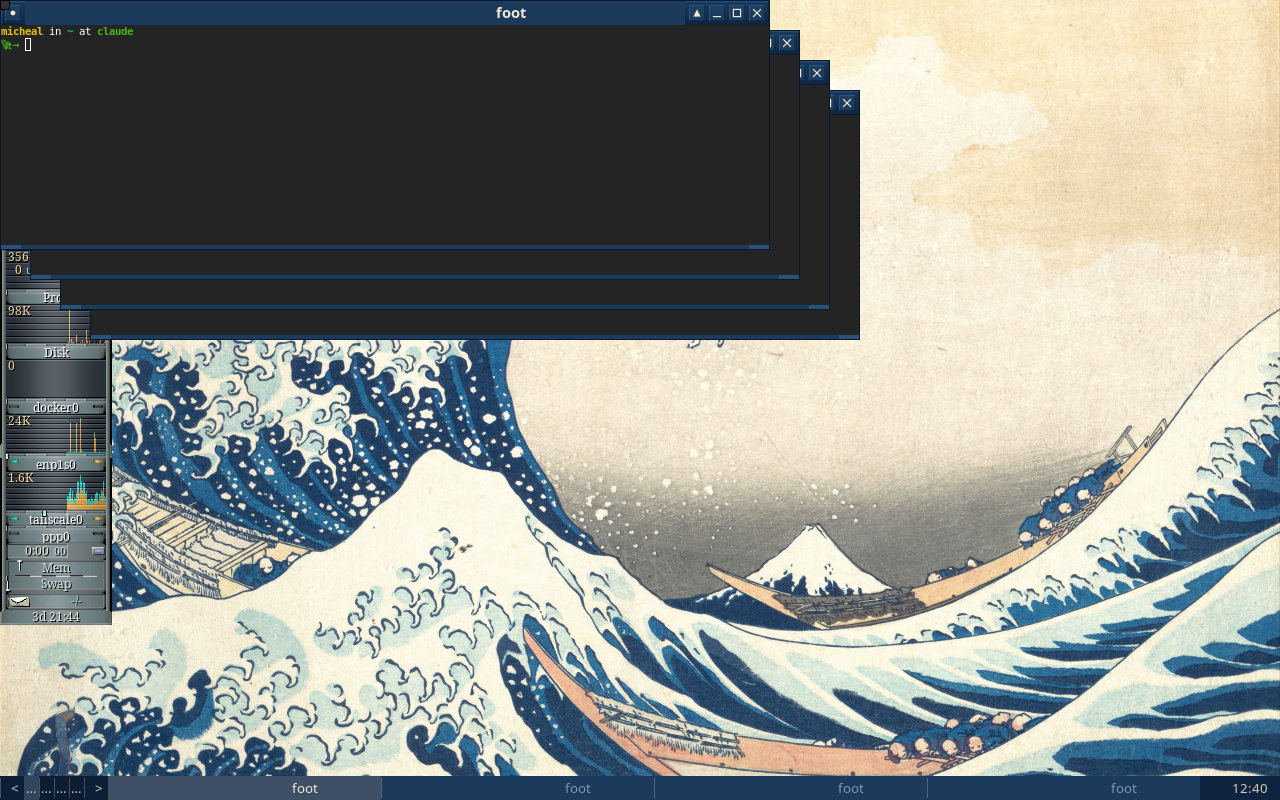
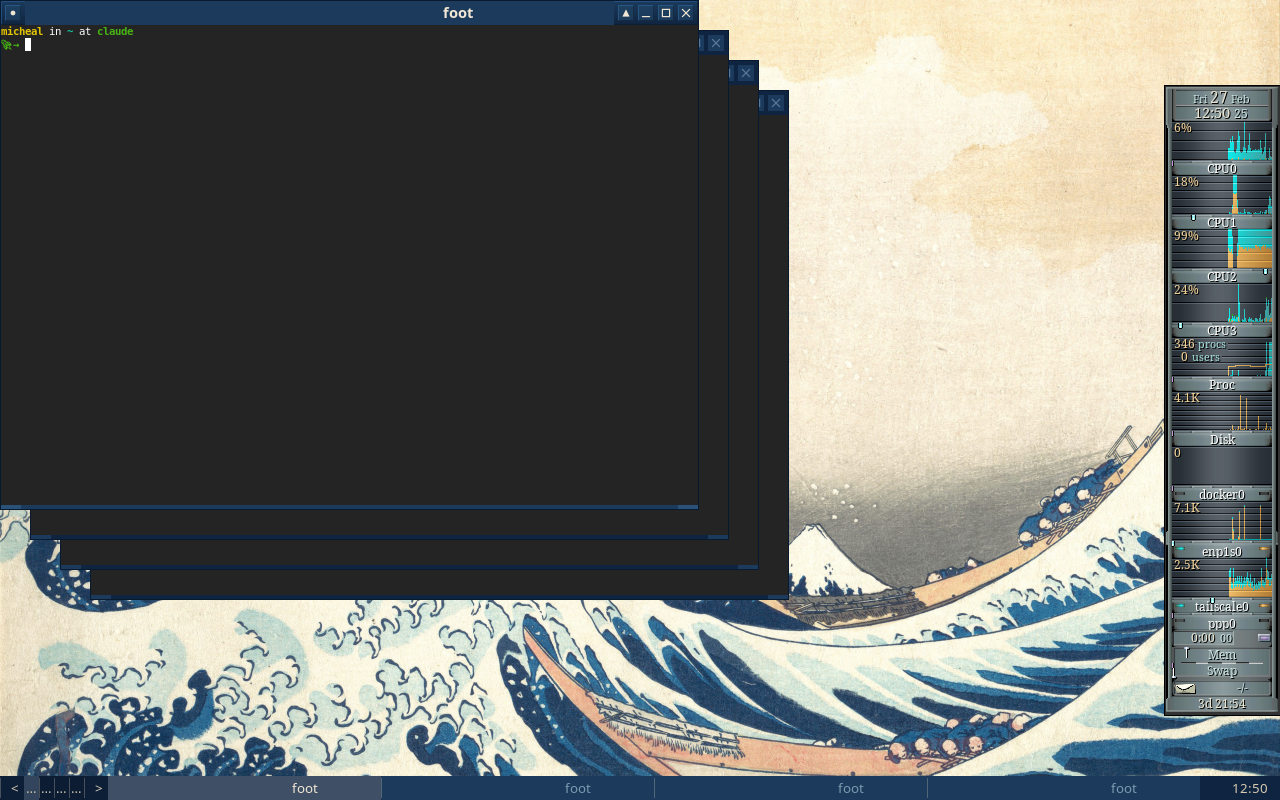
fix: route gkrellm to slit and map already-mapped slit clients
Two bugs prevented gkrellm -w from docking in the slit:

1. should_dock_in_slit() required window_type_len == 0 for withdrawn
   state detection, but gkrellm sets _NET_WM_WINDOW_TYPE_NORMAL even
   with -w flag. Remove the window_type_len check since withdrawn
   state (initial_state == 0) is sufficient.

2. wm_slit_add_client() registered a wl_surface map listener, but
   the surface was already mapped when called from the xwayland map
   handler. The listener never fired, leaving the client unmapped
   with no scene tree. Now checks if surface exists at add time and
   triggers map logic immediately.

Updated screenshots show gkrellm properly docked in the slit on the
right side with fully visible window titlebars.

diff --git a/src/slit.c b/src/slit.c
@@ -658,6 +658,29 @@ wm_slit_add_client(struct wm_slit *slit, void *surface)
 	wlr_log(WLR_INFO, "slit: added client (total %d)",
 		slit->client_count);
 
+#ifdef WM_HAS_XWAYLAND
+	/*
+	 * If the surface is already mapped (e.g. routed from the xwayland
+	 * map handler), trigger map logic immediately since we missed the
+	 * wl_surface map event.
+	 */
+	if (client->xsurface->surface) {
+		client->mapped = true;
+		client->width = client->xsurface->width;
+		client->height = client->xsurface->height;
+		if (!client->scene_tree && slit->scene_tree) {
+			client->scene_tree = wlr_scene_subsurface_tree_create(
+				slit->scene_tree,
+				client->xsurface->surface);
+		}
+		wlr_log(WLR_INFO, "slit client mapped: %s (%dx%d)",
+			client->xsurface->title ?
+				client->xsurface->title : "(null)",
+			client->width, client->height);
+		wm_slit_reconfigure(slit);
+	}
+#endif
+
 	return client;
 }
 

diff --git a/src/xwayland.c b/src/xwayland.c
@@ -144,11 +144,11 @@ should_dock_in_slit(struct wlr_xwayland_surface *xsurface,
 
 	/*
 	 * Classic dockapps use withdrawn state (initial_state == 0
-	 * in WM_HINTS).  Check the size hints: tiny windows with
-	 * no window type set are likely dockapps.
+	 * in WM_HINTS).  Some apps (e.g. gkrellm -w) set withdrawn
+	 * state but also set _NET_WM_WINDOW_TYPE_NORMAL, so don't
+	 * require window_type_len == 0.
 	 */
-	if (xsurface->window_type_len == 0 &&
-	    !xsurface->override_redirect &&
+	if (!xsurface->override_redirect &&
 	    xsurface->hints &&
 	    xsurface->hints->initial_state == 0 /* WithdrawnState */) {
 		return true;
